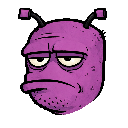
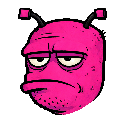
rename Boss→Larry, add character intros, Tom portraits, split camera safety inset
CharacterRegistry & Boss → Larry
---------------------------------
- Rename CharacterId::Boss → CharacterId::Larry (and kLarry internally)
  across CharacterRegistry, OfficeScene, and all references. Larry is the
  boss's actual name in the script.
- Rename Tom's portrait files: gotchiportrait{sad,mid,happy}.png →
  tommportrait{sad,mid,happy}.png (consistent naming with other characters).

OfficeScene: Tom portraits & character introductions
-----------------------------------------------------
- Load tomPortraits[3] in init() via CharacterRegistry::loadPortrait().
- Unload in cleanup() alongside tomPoses.
- Add firstTime/firstTimeName fields to OfficeLine. Scenario 1 (Larry's
  introduction line) tagged with firstTime=true, name="Larry (Tom's boss)".
- playLine() shows firstTimeName instead of speaker on first-time lines, and
  sets the dialog-box portrait from tomPortraits[line.emotion] for Tom's
  lines (focusActor==0). Larry's lines clear the portrait (no Larry art yet).
- Rename boss → larry actor, drawBoss() → drawLarry(), all related references.

PizzaParlorScene: character introductions
------------------------------------------
- Add firstTime/firstTimeName fields to PizzaLine.
- Karen's first line tagged "Karen (Tom's ex-wife)", Ronzer's tagged
  "Ronzer (her new boyfriend)".
- playLine() shows firstTimeName on those lines.

SceneCamera: split boundary safety inset
-----------------------------------------
- Split BOUNDARY_SAFETY_INSET (30.0f, shared X/Y) into
[…]

diff --git a/src/game/OfficeScene.cpp b/src/game/OfficeScene.cpp
@@ -6,11 +6,11 @@
 #include <cmath>
 
 static const Color TOM_COLOR      = CharacterRegistry::get(CharacterId::Tom).nameColor;
-static const Color BOSS_COLOR     = CharacterRegistry::get(CharacterId::Boss).nameColor;
+static const Color LARRY_COLOR    = CharacterRegistry::get(CharacterId::Larry).nameColor;
 static const Color NARRATOR_COLOR = CharacterRegistry::get(CharacterId::Narrator).nameColor;
 
 // The portal's anchor in this scene's 2D world space (same coordinate space
-// as tom/boss's positions) -- where in the room it should visually sit.
+// as tom/larry's positions) -- where in the room it should visually sit.
 // PortalEffect's own 3D camera is otherwise entirely independent of this
 // scene's 2D SceneCamera, so without projecting this point through the 2D
 // camera every frame (see the exact-projection math in draw()), the portal
@@ -41,6 +41,10 @@ void OfficeScene::init() {
     tomPoses[1] = CharacterRegistry::loadPose(CharacterId::Tom, Emotion::Mid);
     tomPoses[2] = CharacterRegistry::loadPose(CharacterId::Tom, Emotion::Happy);
 
+    tomPortraits[0] = CharacterRegistry::loadPortrait(CharacterId::Tom, Emotion::Sad);
+    tomPortraits[1] = CharacterRegistry::loadPortrait(CharacterId::Tom, Emotion::Mid);
+    tomPortraits[2] = CharacterRegistry::loadPortrait(CharacterId::Tom, Emotion::Happy);
+
     portal = new PortalEffect();
     portal->init();
     portal->setDebugCamDist(PORTAL_CAM_DIST);
@@ -54,25 +58,25 @@ void OfficeScene::init() {
     tom->setVisible(false);
     addActor(tom);
 
-    boss = new SceneActor({650.0f, 380.0f}, 50.0f, 76.0f);
-    boss->setTag("boss");
-    boss->setVisible(false);
-    addActor(boss);
+    larry = new SceneActor({650.0f, 380.0f}, 50.0f, 76.0f);
+    larry->setTag("larry");
+    larry->setVisible(false);
+    addActor(larry);
 
     // --- Scenario 0: "Performance Review", ported almost line-for-line ---
     scenarios.push_back({
         { "Narrator", "Tom arrives at Datatek Solutions.\n9:14 AM. His shift started at 9:00.",
           NARRATOR_COLOR, -1, false },
-        { "Boss",  "Tom. My office.\nBring the Hendricks file.",
-          BOSS_COLOR, 1, false },
+        { "Larry",  "Tom. My office.\nBring the Hendricks file.",
+          LARRY_COLOR, 1, false },
         { "Tom",  "...What's the Hendricks file.",
           TOM_COLOR, 0, false },
-        { "Boss",  "The one I emailed you about.\nFive times.\nAlso on the physical memo.",
-          BOSS_COLOR, 1, false },
+        { "Larry",  "The one I emailed you about.\nFive times.\nAlso on the physical memo.",
+          LARRY_COLOR, 1, false },
         { "Tom",  "I don't have a desk.\nYou took my desk.",
           TOM_COLOR, 0, true },
-        { "Boss",  "We hot-desk now Tom.\nIt's a flex workspace environment.",
-          BOSS_COLOR, 1, false },
+        { "Larry",  "We hot-desk now Tom.\nIt's a flex workspace environment.",
+          LARRY_COLOR, 1, false },
         { "Tom",  "I sit on a yoga ball.\nI am 34 years old.",
           TOM_COLOR, 0, false },
         { "Narrator", "The review goes poorly.\nTom does not receive the 3% raise.\nHe receives a 'verbal commendation'.",
@@ -85,24 +89,24 @@ void OfficeScene::init() {
     scenarios.push_back({
         { "Narrator", "Tom's boss calls him in.\nThis time it's different.",
           NARRATOR_COLOR, -1, false },
-        { "Boss",  "Tom we're expanding your role.\nCongratulations.",
-          BOSS_COLOR, 1, false },
+        { "Larry",  "Tom we're expanding your role.\nCongratulations.",
+          LARRY_COLOR, 1, false, true, "Larry (Tom's boss)" },
         { "Tom",  "...A raise?",
-          TOM_COLOR, 0, false },
-        { "Boss",  "More responsibility!\nYou'll now manage the Henderson account\nAND the Brickford account.",
-          BOSS_COLOR, 1, false },
+          TOM_COLOR, 0, false, true, "Tom Gotchi" },
+        { "Larry",  "More responsibility!\nYou'll now manage the Henderson account\nAND the Brickford account.",
+          LARRY_COLOR, 1, false },
         { "Tom",  "Okay and the raise --",
           TOM_COLOR, 0, false },
-        { "Boss",  "We're calling it a 'growth opportunity'.",
-          BOSS_COLOR, 1, false },
+        { "Larry",  "We're calling it a 'growth opportunity'.",
+          LARRY_COLOR, 1, false },
         { "Tom",  "So no raise.",
           TOM_COLOR, 0, false },
-        { "Boss",  "We're also moving your start time to 8:30.",
-          BOSS_COLOR, 1, false },
+        { "Larry",  "We're also moving your start time to 8:30.",
+          LARRY_COLOR, 1, false },
         { "Tom",  "Earlier?!",
           TOM_COLOR, 0, true },
-        { "Boss",  "It's the flex workspace, Tom.\nThe ball yoga spot is first come, first served now.",
-          BOSS_COLOR, 1, false },
+        { "Larry",  "It's the flex workspace, Tom.\nThe ball yoga spot is first come, first served now.",
+          LARRY_COLOR, 1, false },
         { "Tom",  "I... cannot process this\nright now.",
           TOM_COLOR, 0, false },
         { "Narrator", "Tom processes it on his commute home.\nHe misses his exit.\nTwice.",
@@ -143,7 +147,7 @@ void OfficeScene::update(float deltaTime) {
     }
 
     if (activeScenario < 0) {
-        // Ambient: Tom balancing/wobbling on the yoga ball, boss absent
+        // Ambient: Tom balancing/wobbling on the yoga ball, Larry absent
         // (only appears during the scripted scenarios, called into "his office").
         tomWobbleTimer += deltaTime * 3.0f;
         tom->setPosition({420.0f, 400.0f + sinf(tomWobbleTimer) * 6.0f});
@@ -219,7 +223,7 @@ void OfficeScene::draw() {
     // Actors last, on top of the portal.
     BeginMode2D(cam);
     drawTom(tom->getPosition());
-    if (activeScenario >= 0) drawBoss(boss->getPosition());
+    if (activeScenario >= 0) drawLarry(larry->getPosition());
     EndMode2D();
 
     if (getEntrySceneName() == "scene_select") {
@@ -260,6 +264,7 @@ void OfficeScene::cleanup() {
     if (background.id != 0) { UnloadTexture(background); background = {0}; }
     for (int i = 0; i < 3; i++) {
         if (tomPoses[i].id != 0) UnloadTexture(tomPoses[i]);
+        if (tomPortraits[i].id != 0) UnloadTexture(tomPortraits[i]);
     }
 
     if (portal) { portal->cleanup(); delete portal; portal = nullptr; }
@@ -296,9 +301,19 @@ void OfficeScene::advanceLine() {
 }
 
 void OfficeScene::playLine(const OfficeLine& line) {
-    dialog->setSpeakerName(line.speaker);
+    dialog->setSpeakerName(line.firstTime ? line.firstTimeName : line.speaker);
     dialog->setSpeakerColor(line.speakerColor);
     dialog->setText(line.text);
+
+    if (line.focusActor == 0) {
+        dialog->setPortraitTexture(tomPortraits[line.emotion]);
+        dialog->setPortraitGradient({40, 160, 60, 255}, {15, 60, 25, 255});
+    } else {
+        // Larry has no portrait art -- clear so the placeholder silhouette
+        // doesn't linger from Tom's previous line.
+        dialog->clearPortraitTexture();
+    }
+
     dialog->show();
     focusCameraOn(line.focusActor, line.shake);
 }
@@ -314,7 +329,7 @@ void OfficeScene::endScenario() {
 void OfficeScene::focusCameraOn(int actorIndex, bool shake) {
     SceneActor* target = nullptr;
     if (actorIndex == 0) target = tom;
-    else if (actorIndex == 1) target = boss;
+    else if (actorIndex == 1) target = larry;
 
     if (target) {
         Vector2 pos = target->getCenter();
@@ -359,21 +374,21 @@ void OfficeScene::drawTom(Vector2 pos) {
     DrawLineEx({cx + 24, cy}, {cx + 34, cy + 10}, 5.0f, TOM_COLOR);
 }
 
-void OfficeScene::drawBoss(Vector2 pos) {
+void OfficeScene::drawLarry(Vector2 pos) {
     float cx = pos.x + 25.0f;
     float cy = pos.y + 38.0f;
 
     // Sharp-suited, imposing -- taller and boxier than Tom
-    Color darkBoss = {90, 40, 110, 255};
-    DrawRectangle((int)(cx - 20), (int)(cy - 6), 40, 52, BOSS_COLOR);
-    DrawCircle((int)cx, (int)(cy - 30), 18, BOSS_COLOR);
+    Color darkLarry = {90, 40, 110, 255};
+    DrawRectangle((int)(cx - 20), (int)(cy - 6), 40, 52, LARRY_COLOR);
+    DrawCircle((int)cx, (int)(cy - 30), 18, LARRY_COLOR);
 
     // Stern narrow eyes
-    DrawRectangle((int)(cx - 11), (int)(cy - 32), 6, 2, darkBoss);
-    DrawRectangle((int)(cx + 5), (int)(cy - 32), 6, 2, darkBoss);
+    DrawRectangle((int)(cx - 11), (int)(cy - 32), 6, 2, darkLarry);
+    DrawRectangle((int)(cx + 5), (int)(cy - 32), 6, 2, darkLarry);
     // Flat unimpressed mouth
-    DrawLineEx({cx - 6, cy - 22}, {cx + 6, cy - 22}, 2.0f, darkBoss);
+    DrawLineEx({cx - 6, cy - 22}, {cx + 6, cy - 22}, 2.0f, darkLarry);
 
     // Tie
-    DrawTriangle({cx - 3, cy - 4}, {cx + 3, cy - 4}, {cx, cy + 10}, darkBoss);
+    DrawTriangle({cx - 3, cy - 4}, {cx + 3, cy - 4}, {cx, cy + 10}, darkLarry);
 }

diff --git a/src/game/OfficeScene.hpp b/src/game/OfficeScene.hpp
@@ -11,8 +11,21 @@ struct OfficeLine {
     std::string speaker;
     std::string text;
     Color speakerColor;
-    int focusActor;   // 0 = Tom, 1 = Boss, -1 = none
+    int focusActor;   // 0 = Tom, 1 = Larry, -1 = none
     bool shake;
+
+    // Marks this line as the character's introduction -- playLine() shows
+    // firstTimeName above the dialog box instead of speaker, just for this
+    // one line (e.g. "Larry (Tom's boss)" instead of "Larry"). Set this on
+    // whichever line in the scenario is that character's actual first line
+    // -- there's no automatic first-appearance tracking.
+    bool firstTime = false;
+    std::string firstTimeName;
+
+    // Tom's portrait emotion (0=sad, 1=mid, 2=happy). Only meaningful when
+    // focusActor == 0 -- Larry has no portrait art, so his lines just clear
+    // the portrait instead (see playLine()).
+    int emotion = 1;
 };
 
 // Datatek Solutions -- ported from the JS prototype's "Performance Review"
@@ -44,14 +57,19 @@ private:
     Texture2D background = {0};
 
     SceneActor* tom = nullptr;
-    SceneActor* boss  = nullptr;
+    SceneActor* larry  = nullptr;
 
     DialogBox* dialog = nullptr;  // Not owned -- shared with main.cpp
 
     // Full-body pose art for Tom, [0]=sad [1]=mid [2]=happy -- loaded via
-    // CharacterRegistry (see init()). Boss has no pose art, so drawBoss()
+    // CharacterRegistry (see init()). Larry has no pose art, so drawLarry()
     // stays procedural-only.
     Texture2D tomPoses[3] = {};
+
+    // Tom's dialog-box portraits, same [0]=sad [1]=mid [2]=happy indexing --
+    // loaded via CharacterRegistry (see init()). Larry has no portrait art,
+    // so his lines just clear the dialog box's portrait (see playLine()).
+    Texture2D tomPortraits[3] = {};
 
     float tomWobbleTimer = 0.0f;
 
@@ -69,7 +87,7 @@ private:
     void focusCameraOn(int actorIndex, bool shake);
 
     void drawTom(Vector2 pos);
-    void drawBoss(Vector2 pos);
+    void drawLarry(Vector2 pos);
     void drawOffice();
 
     // The merge-machine/teleporter, drawn in front of the background art but

diff --git a/src/engine/SceneCamera.cpp b/src/engine/SceneCamera.cpp
@@ -294,15 +294,18 @@ void SceneCamera::updatePulse(float deltaTime) {
 
 void SceneCamera::clampToBoundary() {
     // Visible half-width/half-height, shrunk by a fixed inward safety
-    // margin (see BOUNDARY_SAFETY_INSET) -- this is the hard clamp every
-    // scene's setPosition()/zoomTo()/focus shot is subject to, using the
-    // TRUE boundary rect (not inflated by panMargin, which is drag-overscroll
-    // UX padding, a different concern -- see the field comment in the
-    // header). Without this, a story-camera focus shot near the scene edge
-    // (e.g. an actor placed near a wall) could center on empty space past
-    // the boundary, or leave no room for shake before revealing it.
-    float hw = (GAME_W / zoom) * 0.5f + BOUNDARY_SAFETY_INSET;
-    float hh = (GAME_H / zoom) * 0.5f + BOUNDARY_SAFETY_INSET;
+    // margin (see BOUNDARY_SAFETY_INSET_X/_Y) -- this is the hard clamp
+    // every scene's setPosition()/zoomTo()/focus shot is subject to, using
+    // the TRUE boundary rect (not inflated by panMargin, which is
+    // drag-overscroll UX padding, a different concern -- see the field
+    // comment in the header). Without this, a story-camera focus shot near
+    // the scene edge (e.g. an actor placed near a wall) could center on
+    // empty space past the boundary, or leave no room for shake before
+    // revealing it. This is unconditional -- wide view overrides
+    // position/zoom entirely after this runs (see update()), so it's
+    // unaffected by either inset.
+    float hw = (GAME_W / zoom) * 0.5f + BOUNDARY_SAFETY_INSET_X;
+    float hh = (GAME_H / zoom) * 0.5f + BOUNDARY_SAFETY_INSET_Y;
 
     float loX = boundaryMinX + hw, hiX = boundaryMaxX - hw;
     if (loX <= hiX) { if (position.x < loX) position.x = loX; if (position.x > hiX) position.x = hiX; }

diff --git a/src/engine/SceneCamera.hpp b/src/engine/SceneCamera.hpp
@@ -154,8 +154,14 @@ private:
     // half-width/half-height in clampToBoundary() -- keeps the camera's
     // actual visible frame at least this far inside the true boundary rect
     // at all times, so panning/zooming to frame an off-center actor (or
-    // camera shake) never reveals empty space past the scene's edge.
-    static constexpr float BOUNDARY_SAFETY_INSET = 30.0f;
+    // camera shake) never reveals empty space past the scene's edge. Split
+    // into separate X/Y insets (rather than one shared value) so a focus
+    // shot's vertical framing can be held back further from the top/bottom
+    // edges than horizontal -- most scenes are wider than they are tall, so
+    // a small vertical pan already gets much closer to the edge than the
+    // same horizontal pan would.
+    static constexpr float BOUNDARY_SAFETY_INSET_X = 30.0f;
+    static constexpr float BOUNDARY_SAFETY_INSET_Y = 90.0f;
 
     // Inertia state (for fling momentum)
     Vector2 velocity;

diff --git a/src/game/CharacterRegistry.cpp b/src/game/CharacterRegistry.cpp
@@ -4,13 +4,9 @@
 namespace {
 
 // Emotion order matches the Emotion enum: [0]=Sad, [1]=Mid, [2]=Happy.
-// Tom's files are named "gotchiportrait<emotion>" (a holdover from before
-// the tomagotchi-stat-screen portraits and these scene portraits shared a
-// folder) while every other character is "<name><emotion>" directly --
-// intentional, not a bug to "fix" by renaming the files.
 const CharacterInfo kTom = {
     {139, 172, 15, 255}, {139, 172, 15, 255},
-    {"portraits/tom/gotchiportraitsad.png", "portraits/tom/gotchiportraitmid.png", "portraits/tom/gotchiportraithappy.png"},
+    {"portraits/tom/tomportraitsad.png", "portraits/tom/tomportraitmid.png", "portraits/tom/tomportraithappy.png"},
     {"poses/tom/tomposesad.png", "poses/tom/tomposemid.png", "poses/tom/tomposehappy.png"},
 };
 
@@ -40,7 +36,7 @@ const CharacterInfo kJimmy = {
 // No portrait art yet -- portraitPath[] left default-empty (see
 // CharacterInfo's comment on empty meaning "no art for this emotion").
 const CharacterInfo kTherapist = {{22, 160, 133, 255}, {22, 160, 133, 255}, {"", "", ""}, {"", "", ""}};
-const CharacterInfo kBoss      = {{142, 68, 173, 255}, {142, 68, 173, 255}, {"", "", ""}, {"", "", ""}};
+const CharacterInfo kLarry     = {{142, 68, 173, 255}, {142, 68, 173, 255}, {"", "", ""}, {"", "", ""}};
 const CharacterInfo kNarrator  = {{150, 150, 170, 255}, {150, 150, 170, 255}, {"", "", ""}, {"", "", ""}};
 const CharacterInfo kPhone     = {{230, 160, 60, 255}, {230, 160, 60, 255}, {"", "", ""}, {"", "", ""}};
 
@@ -53,7 +49,7 @@ const CharacterInfo& CharacterRegistry::get(CharacterId id) {
         case CharacterId::Ronzer:    return kRonzer;
         case CharacterId::Jimmy:     return kJimmy;
         case CharacterId::Therapist: return kTherapist;
-        case CharacterId::Boss:      return kBoss;
+        case CharacterId::Larry:     return kLarry;
         case CharacterId::Narrator:  return kNarrator;
         case CharacterId::Phone:     return kPhone;
     }

diff --git a/src/game/PizzaParlorScene.hpp b/src/game/PizzaParlorScene.hpp
@@ -19,6 +19,14 @@ struct PizzaLine {
     bool shake;        // punch-in beat: small camera shake when this line shows
     int portraitActor;  // which actor's portrait set to draw, or -1 for none (defaults to focusActor via playLine)
     int emotion;         // 0 = sad, 1 = mid, 2 = happy -- index into that actor's portrait set
+
+    // Marks this line as the character's introduction -- playLine() shows
+    // firstTimeName above the dialog box instead of speaker, just for this
+    // one line (e.g. "Karen (Tom's ex-wife)" instead of "Karen"). Set this
+    // on whichever line in the scenario is that character's actual first
+    // line -- there's no automatic first-appearance tracking.
+    bool firstTime = false;
+    std::string firstTimeName;
 };
 
 // Recurring "check in on the gotchi's world" hangout location. Most visits

diff --git a/src/game/CharacterRegistry.hpp b/src/game/CharacterRegistry.hpp
@@ -18,7 +18,7 @@ enum class CharacterId {
     Ronzer,
     Jimmy,
     Therapist,
-    Boss,
+    Larry,
     Narrator,
     Phone,          // "Karen (text)" phone-insert lines in ApartmentScene
 };
@@ -46,12 +46,12 @@ struct CharacterInfo {
     // Portrait asset keys (relative to assets/, matches AssetPack::loadTexture
     // keys), indexed by Emotion. Empty string means no art for that emotion --
     // callers should fall back to Mid, or to no portrait at all if Mid is
-    // also empty (e.g. Narrator/Boss/Therapist, which have no portrait art).
+    // also empty (e.g. Narrator/Larry/Therapist, which have no portrait art).
     std::string portraitPath[3];
 
     // Full-body pose asset keys, same convention/fallback rules as
     // portraitPath. Separate art from portraits (poses/ vs portraits/) --
-    // characters without pose art (Therapist, Boss, Narrator, Phone) are
+    // characters without pose art (Therapist, Larry, Narrator, Phone) are
     // left default-empty and scenes fall back to their procedural silhouette
     // drawing for those.
     std::string posePath[3];

diff --git a/src/game/PizzaParlorScene.cpp b/src/game/PizzaParlorScene.cpp
@@ -85,8 +85,8 @@ void PizzaParlorScene::init() {
         { "Tom",    "Oh -- hey. I didn't know you two ate here too.",
           TOM_COLOR, 0, false, 0, 1 },
         { "Karen",   "We come here every Tuesday, Tom. We've come here every\nTuesday for six weeks.",
-          WIFE_COLOR, 1, false, 1, 1 },
-        { "Ronzer",  "Ronzer.", POKEMON_COLOR, 2, false, 2, 2 },
+          WIFE_COLOR, 1, false, 1, 1, true, "Karen (Tom's ex-wife)" },
+        { "Ronzer",  "Ronzer.", POKEMON_COLOR, 2, false, 2, 2, true, "Ronzer (her new boyfriend)" },
         { "Tom",    "Right. Tuesdays. I knew that.",
           TOM_COLOR, 0, false, 0, 0 },
         { "Karen",   "Did you get my email about Jimmy's recital?",
@@ -287,7 +287,7 @@ void PizzaParlorScene::advanceLine() {
 }
 
 void PizzaParlorScene::playLine(const PizzaLine& line) {
-    dialog->setSpeakerName(line.speaker);
+    dialog->setSpeakerName(line.firstTime ? line.firstTimeName : line.speaker);
     dialog->setSpeakerColor(line.speakerColor);
     dialog->setText(line.text);
 